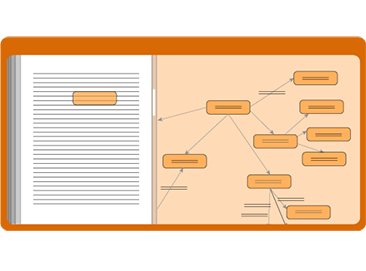
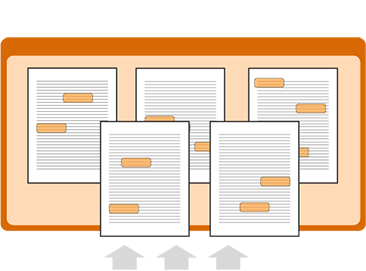
Update landing page with requested changes.

diff --git a/src/index.html b/src/index.html
@@ -4,8 +4,8 @@
   <meta charset="UTF-8">
   <meta name="viewport" content="width=device-width, initial-scale=1, shrink-to-fit=no">
   <link
-    href="https://fonts.googleapis.com/css2?family=Noto+Sans:ital,wght@0,400;0,700;1,400;1,700&family=Patua+One&family=Playfair+Display&display=swap"
-    rel="stylesheet">
+      href="https://fonts.googleapis.com/css2?family=Noto+Sans:ital,wght@0,400;0,700;1,400;1,700&family=Patua+One&family=Playfair+Display&display=swap"
+      rel="stylesheet">
   <title>LifeLike - Knowledge Enrichment</title>
 </head>
 <body>
@@ -32,7 +32,7 @@
           </h2>
 
           <div class="intro-subtitle">
-            Turn big data into contextualized knowledge, creating a 360-degree view and big picture
+            Turning big data into contextualized knowledge, creating a 360-degree view and big picture
             understanding, augmenting our intelligence in solving complex problems.
           </div>
 
@@ -52,28 +52,28 @@
     <div class="feature-table">
       <div class="feature-item">
         <div class="feature-icon">
-          <img src="assets/img/workflow_step_1.png" alt="Screenshot of document on left and knowledge graph on right">
+          <img src="../assets/img/workflow_step_2.png"
+               alt="Screenshot of document on left and knowledge graph on right">
         </div>
         <h2 class="feature-title">
           Extract concepts easily
         </h2>
         <div class="feature-description">
-          Upload any PDF, auto-annotate, create new annotations on the fly and associate them
-          with identifiers. Quickly understand unstructured text, extract key information
-          in a visual format and cross-connect it with other sources of knowledge.
+          Upload any PDF, auto-extract knowledge, create new annotations on the fly, quickly
+          understand unstructured text and cross-connect it with other sources of knowledge.
         </div>
       </div>
 
       <div class="feature-item">
         <div class="feature-icon">
-          <img src="assets/img/workflow_step_2.png" alt="Documents being collected">
+          <img src="../assets/img/workflow_step_1.png" alt="Documents being collected">
         </div>
         <h2 class="feature-title">
           Make new connections
         </h2>
         <div class="feature-description">
-          Drag annotated entities onto a canvas and draw relationships between nodes to capture new knowledge.
-          Consolidate large amounts of knowledge into a big-picture view with links to detailed information. 
+          Explore system extracted information, add additional curation and consolidate large amounts of
+          knowledge into a big-picture view.
         </div>
       </div>
 
@@ -85,9 +85,8 @@
           Leap beyond traditional research
         </h2>
         <div class="feature-description">
-          Upload experimental data and perform deep analytics against a
-          knowledge graph. Extract enriched data or additional features for machine
-          learning mdels.
+          Perform deep analytics against a knowledge graph that integrates data from many public databases.
+          Extract enriched data for external processing.
         </div>
       </div>
     </div>
@@ -95,7 +94,14 @@
 </div>
 
 <footer class="site-footer">
-  <div class="wrapper">
+  <div class="wrapper text-center">
+    <div class="mt-4">
+      We would like to thank the Novo Nordisk Foundation for funding this work.
+    </div>
+    <div class="footer-logos">
+      <img src="assets/img/cfb_logo.png" alt="The Novo Nordisk Foundation Center for Sustainability">
+      <img src="assets/img/ucsd_logo.png" alt="University of California San Diego Bioengineering">
+    </div>
   </div>
 </footer>
 

diff --git a/src/stylesheets/index.scss b/src/stylesheets/index.scss
@@ -19,39 +19,19 @@ body {
   background: $site-main-bg;
 }
 
+// ========================================
+// Navbar
+// ========================================
+
 .site-top {
   position: relative;
   z-index: 1;
-
-  &:after {
-    position: absolute;
-    display: block;
-    top: 0;
-    left: 0;
-    bottom: -80px;
-    right: 0;
-    z-index: -1;
-    content: '';
-    background: url(/assets/img/intro_bg.jpg);
-    background-position: center center;
-    background-size: cover;
-    clip-path: polygon(0 0, 100% 0, 100% 95%, 0 100%);
-    margin-bottom: $spacer * 3;
-  }
-
-  @include media-breakpoint-up(sm) {
-    &:after {
-      margin-bottom: $spacer * 3;
-      clip-path: polygon(0 0, 100% 0, 100% 90%, 0 100%);
-    }
-  }
-
-  @include media-breakpoint-up(md) {
-    &:after {
-      margin-bottom: $spacer * 2;
-      clip-path: polygon(0 0, 100% 0, 100% 85%, 0 100%);
-    }
-  }
+  margin-bottom: -$edge-angle-size;
+  padding-bottom: $edge-angle-size + 5px;
+  background: url(/assets/img/intro_bg.jpg);
+  background-position: center center;
+  background-size: cover;
+  clip-path: polygon(0 0, 100% 0, 100% calc(100% - #{$edge-angle-size}), 0 100%);
 }
 
 .site-header-container {
@@ -76,6 +56,10 @@ body {
     font-size: 24pt;
   }
 }
+
+// ========================================
+// Intro
+// ========================================
 
 .section-intro {
   padding: ($spacer * 2) 0;
@@ -135,6 +119,10 @@ body {
   }
 }
 
+// ========================================
+// Spotlight
+// ========================================
+
 .section-spotlight {
   padding: ($spacer * 5);
 }
@@ -157,6 +145,10 @@ body {
   border-radius: ($border-radius * 2);
 }
 
+// ========================================
+// Features
+// ========================================
+
 .section-features {
 }
 
@@ -177,7 +169,11 @@ body {
     padding: ($spacer * 3) $wrapper-padding-x;
 
     &:first-child {
-      padding-top: $spacer * 4;
+      padding-top: calc(#{$spacer * 3} + #{$edge-angle-size});
+    }
+
+    &:last-child {
+      padding-bottom: calc(#{$spacer * 3} + #{$edge-angle-size});
     }
 
     &:not(:last-child):before {
@@ -206,7 +202,7 @@ body {
 
   @include media-breakpoint-up(lg) {
     border-right: 1px solid $gray-300;
-    padding: ($spacer * 5) $wrapper-padding-x-lg;
+    padding: ($spacer * 7) $wrapper-padding-x-lg;
 
     &:not(:last-child):before {
       content: '\f111';
@@ -260,10 +256,15 @@ body {
   margin: auto;
 }
 
+// ========================================
+// Catcher
+// ========================================
+
 .section-catcher {
   background: $gray-100;
-  clip-path: polygon(0 0, 100% 40%, 100% 100%, 0 100%);
-  padding: ($spacer * 6) 0 ($spacer * 4) 0;
+  margin-top: -$edge-angle-size;
+  clip-path: polygon(0 0, 100% #{$edge-angle-size}, 100% 100%, 0 100%);
+  padding: ($spacer * 7) 0 ($spacer * 4) 0;
 }
 
 .catcher-title {
@@ -276,9 +277,34 @@ body {
   font-size: 140%;
 }
 
-.site-footer {
-  padding: ($spacer * 6) 0;
+.catcher-body {
+  max-width: 20rem;
+  margin: auto;
 }
+
+// ========================================
+// Footer
+// ========================================
+
+.site-footer {
+  color: $gray-600;
+  font-size: $font-size-sm;
+  background: $body-bg;
+  margin-top: -$edge-angle-size;
+  clip-path: polygon(0 0, 100% #{$edge-angle-size}, 100% 100%, 0 100%);
+  padding: ($spacer * 7) 0 ($spacer * 4) 0;
+}
+
+.footer-logos {
+  img {
+    margin: 20px;
+    max-width: 100%;
+  }
+}
+
+// ========================================
+// Utilities
+// ========================================
 
 .flex-spaced-wrap {
   flex-wrap: wrap;

diff --git a/src/stylesheets/_variables.scss b/src/stylesheets/_variables.scss
@@ -14,3 +14,4 @@ $site-main-bg: $white;
 $wrapper-width: map-get($grid-breakpoints, xl);
 $wrapper-padding-x-lg: $spacer * 3;
 $wrapper-padding-x: $spacer * 2;
+$edge-angle-size: 60px;
